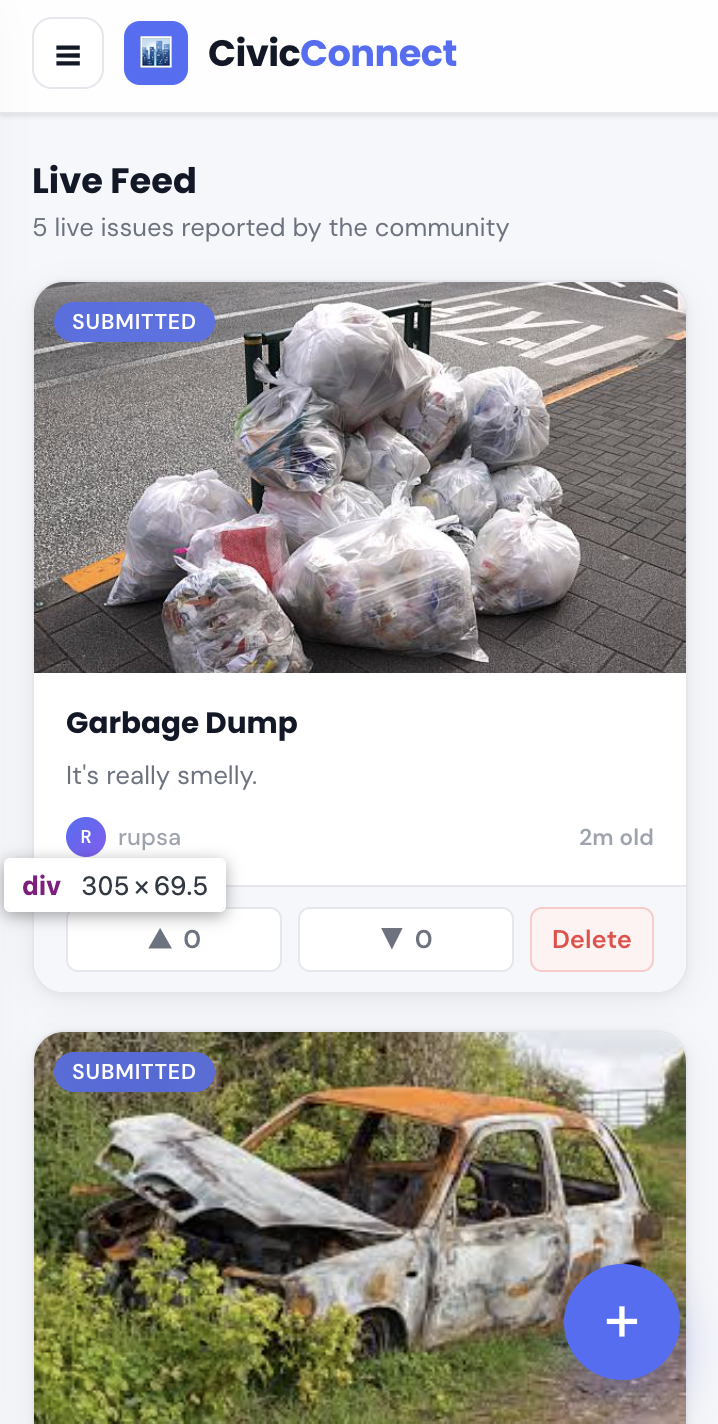
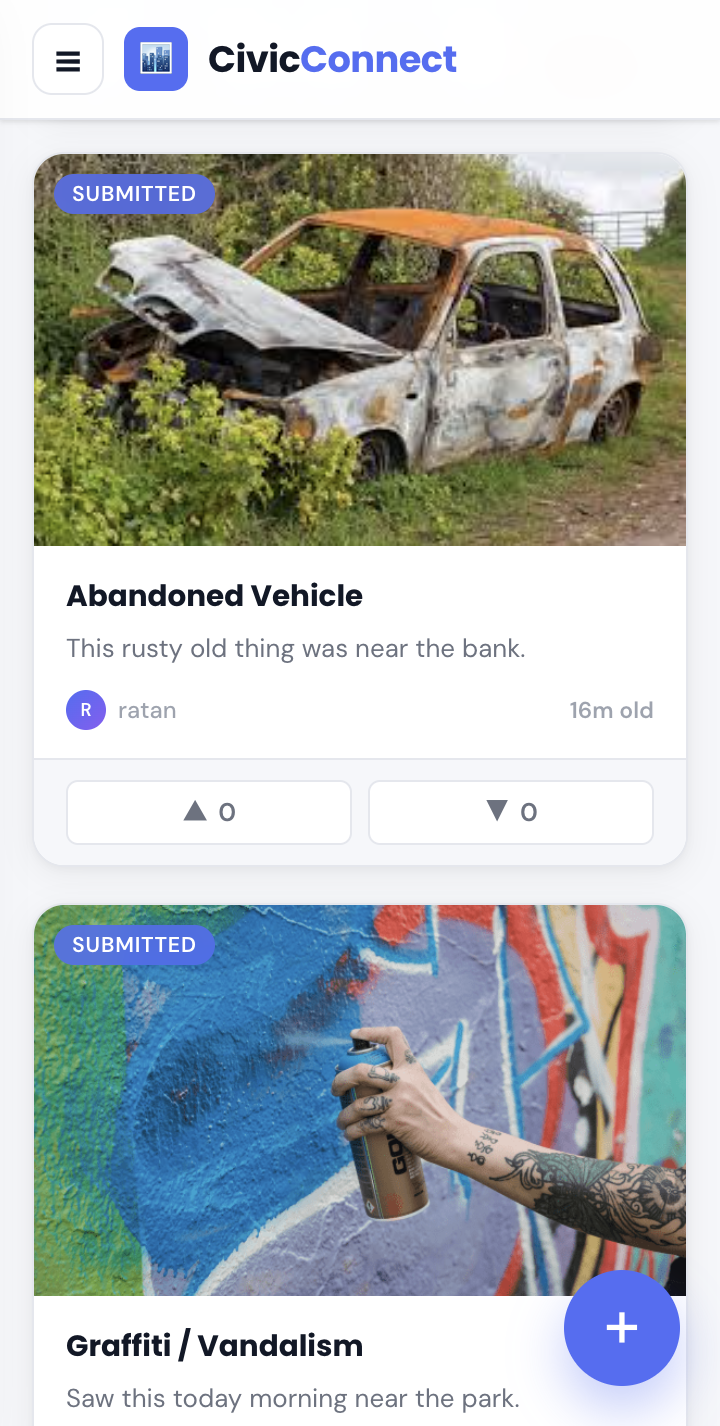
Updated readme

diff --git a/README.md b/README.md
@@ -142,4 +142,4 @@ Successfully integrated:
 # 👨💻 Author
 
 **Priyesh Kumar Thakur**  
-🎓 B.Tech CSE Student — Galgotias University
+🎓 Software Developer
